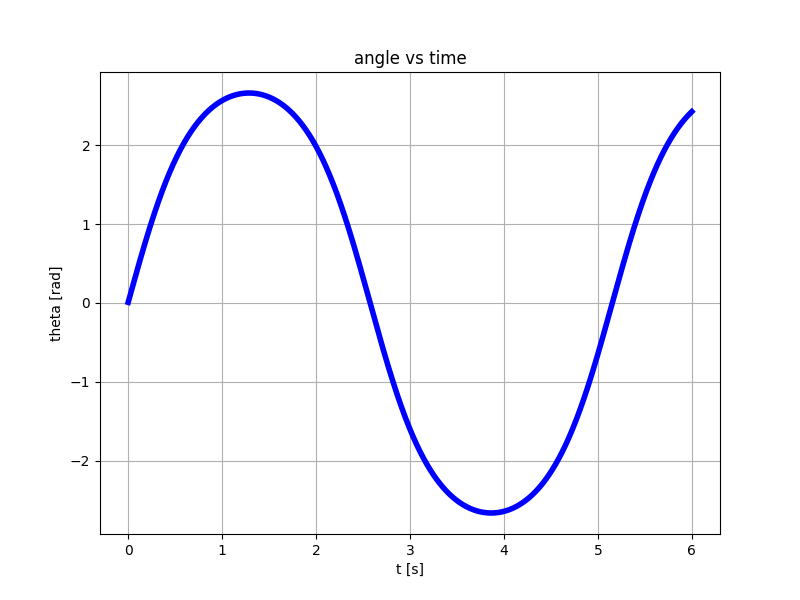
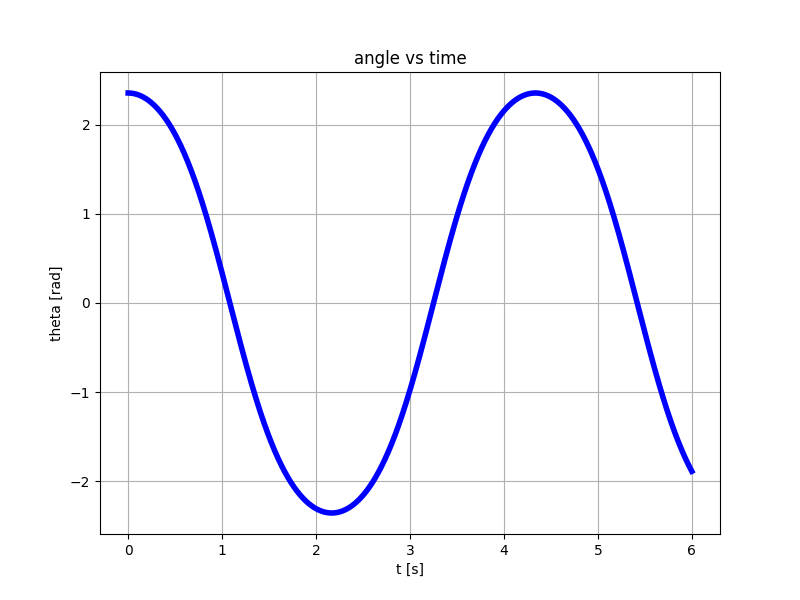
Initial conditions use initial angle

diff --git a/example_01.py b/example_01.py
@@ -11,17 +11,8 @@ animation of the pendulum.
         * `animation = False`
         * `DURATION = 1000`
 
-The problem is setting the initial conditions. Basically, you can define them in terms of initial
-displacement (theta(t = -dt) and theta(t = 0)). This is causes problems if you change the
-time interval `dt`, as the same displacement would occur within a different time slot. So, don't
-change `dt` or try to also change the initial delta `theta` accordingly.
-
 > NOTE: python is slow at rendering and your frame rate is anyway the bottleneck. For this reason,
     the `dt` used for generating data is not the same used to update the animation
-> NOTE2: the simulation works also if the pendulum starts spinning around but wrapping `theta`
-        when it exceeds 2pi makes the calculation of the angular speed `omega` more complicated.
-        So, the energy-related plots will look weird. Test by using
-        * `INITIAL_DELTA_THETA = np.pi / 530`
 '''
 
 import numpy as np
@@ -29,7 +20,7 @@ import matplotlib.pyplot as plt
 
 ######################################## Parameters ###############################################
 animation = True
-INITIAL_DELTA_THETA = np.pi / 730
+INITIAL_THETA = np.pi * 3 / 4
 DURATION = 6  # s
 l = 2  # m
 m = 10  # kg
@@ -54,8 +45,8 @@ def theta_t_plus_dt(dt, theta_t, theta_t_minus_dt):
 
 
 t = np.linspace(0, NUM_OF_SAMPLES * dt, NUM_OF_SAMPLES - 1)
-theta_curr = INITIAL_DELTA_THETA
-theta_prev = 0
+theta_curr = INITIAL_THETA
+theta_prev = INITIAL_THETA
 theta_next = 0
 theta_vec = [0 for _ in range(0, NUM_OF_SAMPLES - 1)]
 omega_vec = [0 for _ in range(0, NUM_OF_SAMPLES - 1)]
